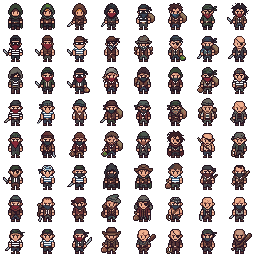
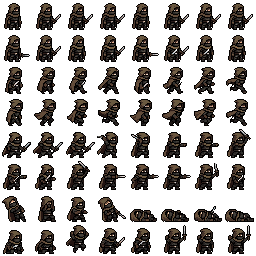
19 fiender i sidovy, döda fiender ligger kvar på marken, nya bakgrunder för gravfält och träsk
Claude-Session: https://claude.ai/code/session_018ajE8D2FggpF2yZQRYB5KY

diff --git a/grafik.js b/grafik.js
@@ -171,7 +171,7 @@ G.ritaScen = (canvas, miljoId, fiender, fro, extra, hjaltar, npcer) => {
       const img = n.fiende ? G.fiendeBild(n.fiende) : G.npcBild(n.ark);
       if(!img) return;
       if(!(img.complete && img.naturalWidth)){ omRitaVid(img); return; }
-      const r = n.fiende ? (G.fiendeRutor(n.fiende).includes(n.ruta) ? n.ruta : G.fiendeRutor(n.fiende)[0]) : n.ruta;
+      const r = n.fiende ? G.fiendeRuta(n.fiende, n.ruta, false) : n.ruta;
       const x = n.x != null ? n.x : (i===0 ? 100 : 126), fot = n.fot != null ? n.fot : (i===0 ? 77 : 74) + markNer;
       ctx.fillStyle="#0005"; ctx.fillRect(x+7, fot-1, 18, 3);
       ctx.save();
@@ -200,7 +200,9 @@ G.ritaScen = (canvas, miljoId, fiender, fro, extra, hjaltar, npcer) => {
       ctx.fillStyle="#0005"; ctx.fillRect(x+Math.round(w*.2), fot-1, Math.round(w*.6), 3);
       if(egen){
         if(!(img.complete && img.naturalWidth)){ vantar.push(img); ctx.globalAlpha=1; return; }
-        const r = rutor.includes(f.ruta) ? f.ruta : rutor[0];
+        const dod = f.kp <= 0, ligger = dod && G.fiendeLigger(f.fid);
+        const r = G.fiendeRuta(f.fid, f.ruta, dod, i);
+        if(ligger) ctx.globalAlpha = .9;   // döda fiender ligger kvar på marken i stället för att blekna
         ctx.save(); ctx.translate(x+w, Math.max(0,y)); ctx.scale(-1,1);   // spegelvänd så att fienden tittar mot hjältarna
         ctx.drawImage(img, (r%8)*32, Math.floor(r/8)*32, 32, 32, 0, 0, w, w);
         ctx.restore();
@@ -368,6 +370,37 @@ G.fiendeBild = fid => {
   if(!FBILDER[fid]){ const img = new Image(); img.src = "fiender/"+fid+".png"; FBILDER[fid] = img; }
   return FBILDER[fid];
 };
+// Fiendearken innehåller också rutor där fienden ligger död eller håller på att försvinna.
+// När arket har laddats mäts varje ruta: "upp" = står upp (nästan lika hög som fiendens vanliga höjd och ordentligt fylld),
+// "ligger" = mycket lägre än vanligt (en död kropp). Tomma rutor och halvt fallna rutor används inte för levande fiender.
+const FDELAR = {};
+function fiendeDelar(fid){
+  if(FDELAR[fid]) return FDELAR[fid];
+  const img = G.fiendeBild(fid); if(!(img && img.complete && img.naturalWidth)) return null;
+  try{
+    const c = document.createElement("canvas"); c.width = 256; c.height = 256;
+    const x = c.getContext("2d"); x.drawImage(img, 0, 0); const d = x.getImageData(0, 0, 256, 256).data;
+    const info = [];
+    for(let r=0;r<64;r++){ let n=0, y0=99, y1=-1; const cx=(r%8)*32, cy=Math.floor(r/8)*32;
+      for(let y=0;y<32;y++) for(let xx=0;xx<32;xx++) if(d[((cy+y)*256+cx+xx)*4+3] >= 128){ n++; if(y<y0) y0=y; if(y>y1) y1=y; }
+      info.push({r, n, h: n ? y1-y0+1 : 0}); }
+    const mitt = l => { const v=[...l].sort((a,b)=>a-b); return v[Math.floor(v.length/2)] || 0; };
+    const fyllda = info.filter(i=>i.n), median = mitt(fyllda.map(i=>i.n)), mh = mitt(fyllda.map(i=>i.h));
+    // jämför med fiendens vanliga höjd, så att låga djur (råttor) inte räknas som liggande
+    const upp = fyllda.filter(i=>i.h >= mh*0.8 && i.n >= median*0.5).map(i=>i.r);
+    const ligger = fyllda.filter(i=>i.h < mh*0.6).map(i=>i.r);
+    return FDELAR[fid] = {upp: upp.length ? upp : info.filter(i=>i.n).map(i=>i.r), ligger};
+  }catch(e){ return FDELAR[fid] = {upp: G.fiendeRutor(fid), ligger: []}; }
+}
+// Vilken ruta som ska visas: en stående för levande fiender, en liggande för döda (om arket har någon)
+G.fiendeRuta = (fid, ruta, dod, nr) => {
+  const rutor = G.fiendeRutor(fid), del = fiendeDelar(fid);
+  let r = rutor.includes(ruta) ? ruta : rutor[0];
+  if(!del) return r;
+  if(dod && del.ligger.length) return del.ligger[(nr||0) % del.ligger.length];
+  return del.upp.includes(r) ? r : del.upp[(r>>>0) % del.upp.length];
+};
+G.fiendeLigger = (fid) => { const del = fiendeDelar(fid); return !!(del && del.ligger.length); };
 // Ritar en figur (ruta 0–63) i en canvas. Faller tillbaka på det kodritade porträttet om bild saknas.
 G.ritaPortratt = (canvas, hjalte, dod, ruta) => {
   const img = G.figurBild(hjalte.id), rutor = G.figurRutor(hjalte.id);

diff --git a/bakgrund.js b/bakgrund.js
@@ -336,7 +336,7 @@ RITA.trask = (ctx, rnd) => {
 // Rita med cache: varje (miljö, frö) ritas en gång och återanvänds sedan
 const CACHE = new Map();
 // Egna målade bakgrunder (320×180, dubbel upplösning) i mappen bakgrunder/. Saknas en miljö här ritas den med kod.
-const EGNA = { grotta:["grotta1","grotta2","grotta3"], skog:["skog1","skog2","skog3","skog1natt","skog2natt","skog3natt"], oken:["oken1","oken2","oken3"], berg:["berg1","berg2","berg3"], ruin:["ruin1","ruin2","ruin3"], gravfalt:["gravfalt1","gravfalt2"], trask:["trask1","trask2"], kloak:["kloak1","kloak2","kloak3"], basar:["basar"], klyfta_ute:["klyfta_ute","klyfta_ute2"], klyfta_inne:["klyfta_inne","klyfta_inne2"] };
+const EGNA = { grotta:["grotta1","grotta2","grotta3"], skog:["skog1","skog2","skog3","skog1natt","skog2natt","skog3natt"], oken:["oken1","oken2","oken3"], berg:["berg1","berg2","berg3"], ruin:["ruin1","ruin2","ruin3"], gravfalt:["gravfalt1","gravfalt2","gravfalt3"], trask:["trask1","trask2","trask3"], kloak:["kloak1","kloak2","kloak3"], basar:["basar"], klyfta_ute:["klyfta_ute","klyfta_ute2"], klyfta_inne:["klyfta_inne","klyfta_inne2"] };
 const EBILDER = {};
 const egenBild = namn => { if(!EBILDER[namn]){ const i=new Image(); i.src="bakgrunder/"+namn+".png"; EBILDER[namn]=i; } return EBILDER[namn]; };
 window.BAKGRUND = {

diff --git a/sw.js b/sw.js
@@ -1,7 +1,7 @@
 // Fantasyvärlden – service worker.
 // Egna filer: nätet först (så uppdateringar syns direkt), cachen som reserv när man är offline.
 // GitHub-API:t (sparfilen) cachas aldrig.
-const CACHE = "fantasyvarlden-v56";
+const CACHE = "fantasyvarlden-v57";
 const SHELL = ["./","./index.html","./spel.js","./regler.js","./varld.js","./hjaltar.js","./figurer.js","./fiendebilder.js","./bakgrund.js","./grafik.js","./manifest.json","./icons/icon-180.png","./icons/icon-192.png","./icons/icon-512.png"];
 self.addEventListener("install", e => { e.waitUntil(caches.open(CACHE).then(c => c.addAll(SHELL)).then(() => self.skipWaiting())); });
 self.addEventListener("activate", e => { e.waitUntil(caches.keys().then(k => Promise.all(k.filter(x => x !== CACHE).map(x => caches.delete(x)))).then(() => self.clients.claim())); });
